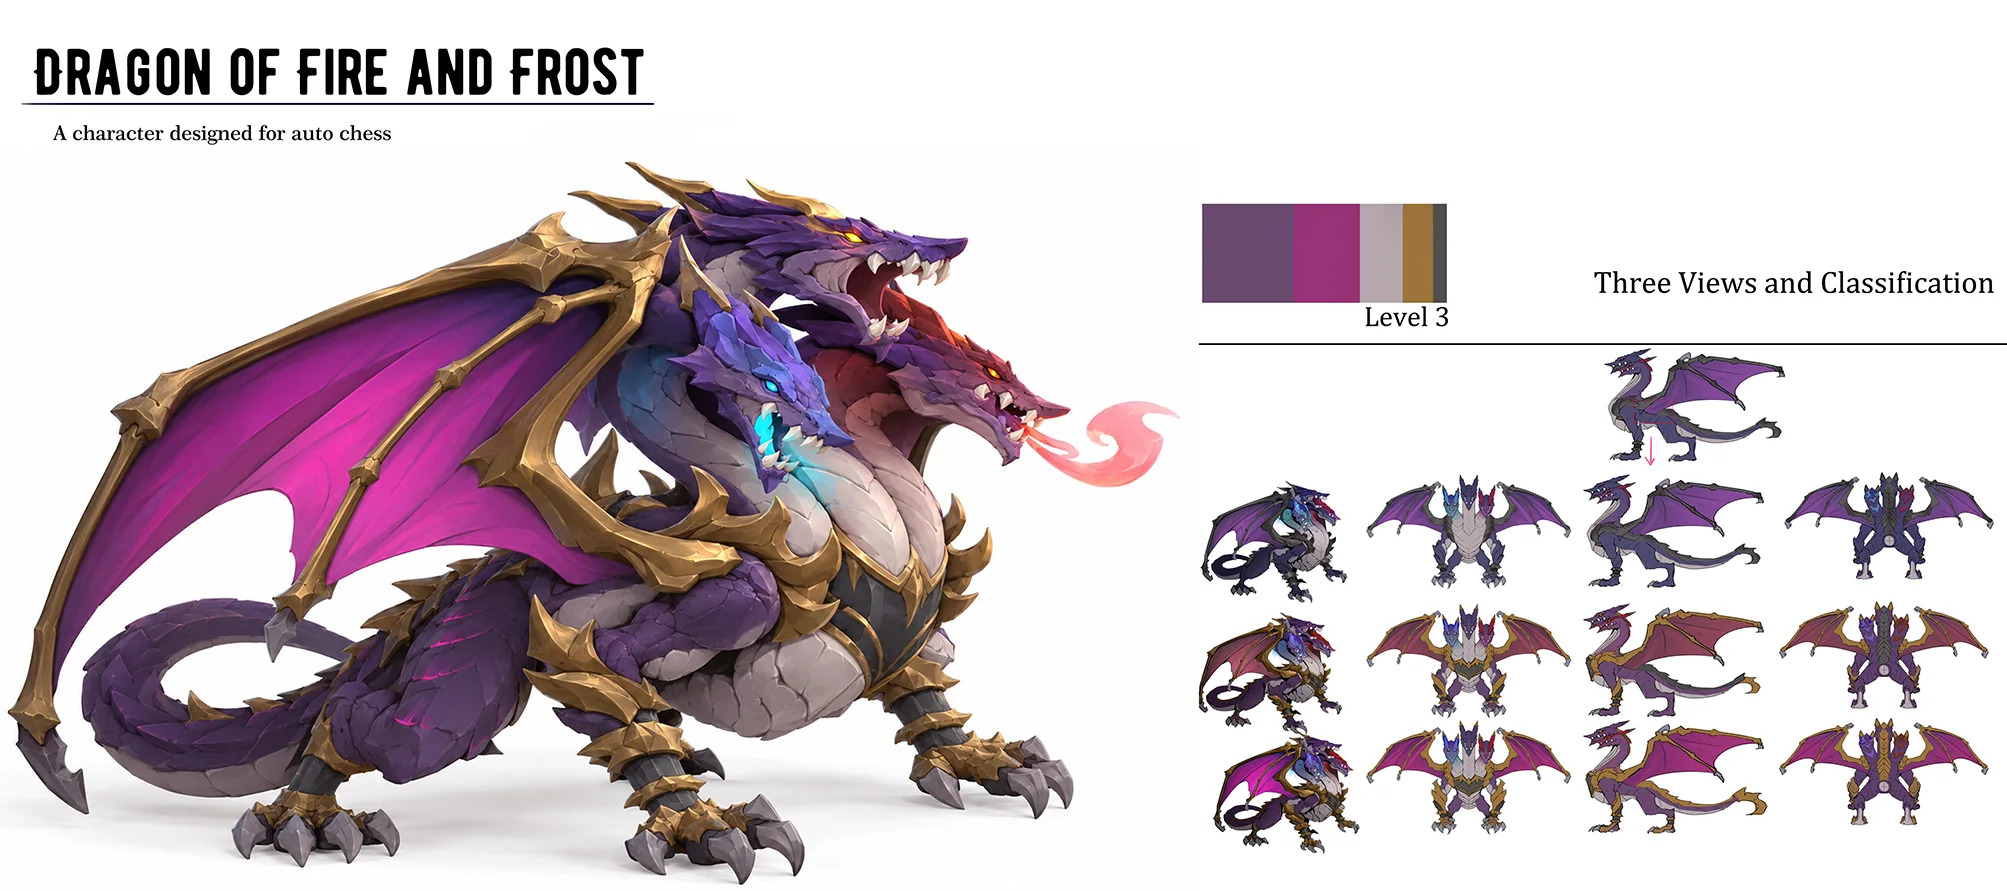
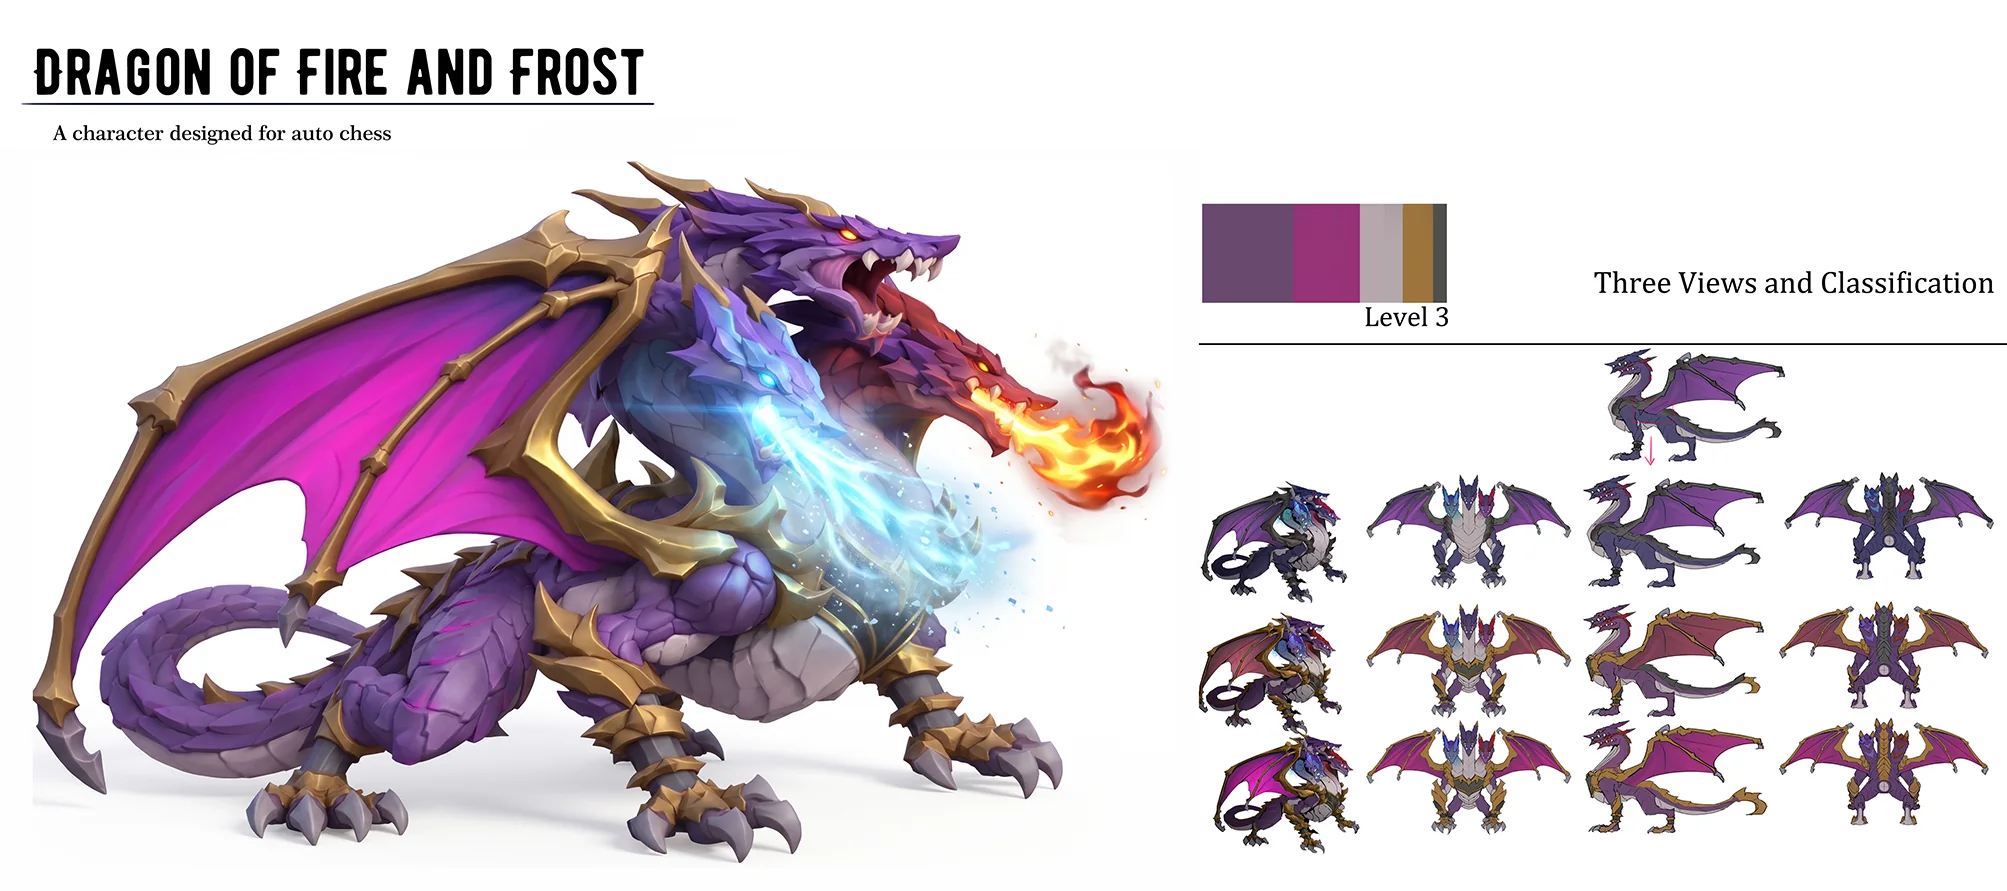
Replace character sheet and dragon artwork

Changed region(s): [[0.0, 0.1818, 0.5869, 1.0]]

diff --git a/index.html b/index.html
@@ -69,24 +69,25 @@
     <section class="statement" aria-label="创作理念"><div class="statement-index">FROM SKETCH TO SCREEN <span>↗</span></div><p class="reveal">让每一笔设定，<br>都成为<span>世界的一部分。</span></p><div class="statement-orbit" aria-hidden="true">✳</div></section>
 
     <section class="section gallery" id="gallery" aria-labelledby="gallery-title">
-      <div class="section-heading reveal"><div><p class="section-number">02 / ART ARCHIVE</p><h2 id="gallery-title">作品<span>档案</span><em> / 15</em></h2></div><p>点击任意作品查看完整大图。按方向筛选，快速浏览角色设定、世界视觉、宣传图和游戏界面。</p></div>
-      <div class="filters reveal" role="group" aria-label="筛选作品"><button class="filter active" type="button" data-filter="all" aria-pressed="true">全部 <span>15</span></button><button class="filter" type="button" data-filter="character" aria-pressed="false">角色设定</button><button class="filter" type="button" data-filter="world" aria-pressed="false">游戏视觉</button><button class="filter" type="button" data-filter="marketing" aria-pressed="false">宣传美术</button><button class="filter" type="button" data-filter="ui" aria-pressed="false">游戏 UI</button></div>
+      <div class="section-heading reveal"><div><p class="section-number">02 / ART ARCHIVE</p><h2 id="gallery-title">作品<span>档案</span><em> / 16</em></h2></div><p>点击任意作品查看完整大图。按方向筛选，快速浏览角色设定、世界视觉、宣传图和游戏界面。</p></div>
+      <div class="filters reveal" role="group" aria-label="筛选作品"><button class="filter active" type="button" data-filter="all" aria-pressed="true">全部 <span>16</span></button><button class="filter" type="button" data-filter="character" aria-pressed="false">角色设定</button><button class="filter" type="button" data-filter="world" aria-pressed="false">游戏视觉</button><button class="filter" type="button" data-filter="marketing" aria-pressed="false">宣传美术</button><button class="filter" type="button" data-filter="ui" aria-pressed="false">游戏 UI</button></div>
       <div class="gallery-grid">
         <button class="art-card reveal" type="button" data-category="character" data-image="assets/mecha-concept.webp" data-title="末日战士 · 角色设定" data-detail="机械角色造型、武器和结构设计"><span class="art-image"><img src="assets/mecha-concept.webp" alt="末日战士机械角色和武器设定板" loading="lazy"></span><span class="art-meta"><small>CHARACTER / 01</small><strong>末日战士 · 设定板</strong><b>↗</b></span></button>
         <button class="art-card reveal" type="button" data-category="world" data-image="assets/mecha-in-game.webp" data-title="末日战士 · 游戏内表现" data-detail="角色场景及技能效果"><span class="art-image"><img src="assets/mecha-in-game.webp" alt="末日战士在游戏内的场景与技能展示" loading="lazy"></span><span class="art-meta"><small>IN GAME / 02</small><strong>末日战士 · 游戏内</strong><b>↗</b></span></button>
-        <button class="art-card reveal" type="button" data-category="character" data-image="assets/dragon-design.webp" data-title="Dragon of Fire and Frost" data-detail="龙角色设定、配色与三视图"><span class="art-image"><img src="assets/dragon-design.webp" alt="Dragon of Fire and Frost 龙角色设计" loading="lazy"></span><span class="art-meta"><small>CREATURE / 03</small><strong>Dragon of Fire and Frost</strong><b>↗</b></span></button>
-        <button class="art-card reveal" type="button" data-category="character" data-image="assets/tiger-mecha.webp" data-title="Tiger Mecha" data-detail="机甲造型、细节与部件拆解"><span class="art-image"><img src="assets/tiger-mecha.webp" alt="Tiger Mecha 机甲角色设计和部件拆解" loading="lazy"></span><span class="art-meta"><small>MECHA / 04</small><strong>Tiger Mecha</strong><b>↗</b></span></button>
-        <button class="art-card reveal" type="button" data-category="character" data-image="assets/rescue-team.webp" data-title="紧急救援队" data-detail="角色造型、服装与配件设计"><span class="art-image"><img src="assets/rescue-team.webp" alt="紧急救援队角色及服装设定" loading="lazy"></span><span class="art-meta"><small>CHARACTER / 05</small><strong>紧急救援队</strong><b>↗</b></span></button>
-        <button class="art-card reveal" type="button" data-category="character" data-image="assets/violet-character.webp" data-title="奇幻角色设定" data-detail="造型设计与视觉探索"><span class="art-image"><img src="assets/violet-character.webp" alt="紫色奇幻角色与设定细节" loading="lazy"></span><span class="art-meta"><small>FANTASY / 06</small><strong>奇幻角色设定</strong><b>↗</b></span></button>
-        <button class="art-card reveal" type="button" data-category="character" data-image="assets/happy-farm.webp" data-title="Happy Farm" data-detail="休闲游戏卡通角色与动物造型"><span class="art-image"><img src="assets/happy-farm.webp" alt="Happy Farm 人物与动物角色设计" loading="lazy"></span><span class="art-meta"><small>STYLIZED / 07</small><strong>Happy Farm</strong><b>↗</b></span></button>
-        <button class="art-card reveal" type="button" data-category="world" data-image="assets/heroes-and-map.webp" data-title="角色与关卡视觉" data-detail="角色群像、游戏画面及关卡地图设计"><span class="art-image"><img src="assets/heroes-and-map.webp" alt="游戏角色、游戏内画面与关卡地图视觉" loading="lazy"></span><span class="art-meta"><small>GAME WORLD / 08</small><strong>角色与关卡视觉</strong><b>↗</b></span></button>
-        <button class="art-card reveal" type="button" data-category="world" data-image="assets/dark-fantasy-scene.webp" data-title="暗黑奇幻场景" data-detail="游戏角色与场景氛围探索"><span class="art-image"><img src="assets/dark-fantasy-scene.webp" alt="暗黑奇幻角色与游戏场景设计" loading="lazy"></span><span class="art-meta"><small>ENVIRONMENT / 09</small><strong>暗黑奇幻场景</strong><b>↗</b></span></button>
-        <button class="art-card reveal" type="button" data-category="marketing" data-image="assets/war-fortress.webp" data-title="War Fortress" data-detail="角色群像主视觉"><span class="art-image"><img src="assets/war-fortress.webp" alt="War Fortress 游戏角色群像宣传图" loading="lazy"></span><span class="art-meta"><small>KEY VISUAL / 10</small><strong>War Fortress</strong><b>↗</b></span></button>
-        <button class="art-card reveal" type="button" data-category="marketing" data-image="assets/slot-promo.webp" data-title="休闲游戏宣传视觉" data-detail="角色群像与游戏活动宣传画面"><span class="art-image"><img src="assets/slot-promo.webp" alt="休闲游戏角色群像宣传画面" loading="lazy"></span><span class="art-meta"><small>KEY VISUAL / 11</small><strong>休闲游戏宣传视觉</strong><b>↗</b></span></button>
-        <button class="art-card reveal" type="button" data-category="marketing" data-image="assets/game-loading.webp" data-title="休闲游戏加载画面" data-detail="场景气氛与角色群像"><span class="art-image"><img src="assets/game-loading.webp" alt="休闲游戏角色群像与烟花加载画面" loading="lazy"></span><span class="art-meta"><small>LOADING / 12</small><strong>游戏加载画面</strong><b>↗</b></span></button>
-        <button class="art-card reveal" type="button" data-category="marketing" data-image="assets/game-celebration.webp" data-title="休闲游戏庆典画面" data-detail="角色、氛围与节日视觉"><span class="art-image"><img src="assets/game-celebration.webp" alt="休闲游戏庆典角色宣传画面" loading="lazy"></span><span class="art-meta"><small>KEY VISUAL / 13</small><strong>游戏庆典画面</strong><b>↗</b></span></button>
-        <button class="art-card reveal" type="button" data-category="ui" data-image="assets/match-game.webp" data-title="休闲游戏 UI 与图标" data-detail="游戏界面、道具与图标素材"><span class="art-image"><img src="assets/match-game.webp" alt="休闲游戏界面和图标素材" loading="lazy"></span><span class="art-meta"><small>GAME UI / 14</small><strong>休闲游戏 UI 与图标</strong><b>↗</b></span></button>
-        <button class="art-card reveal" type="button" data-category="ui" data-image="assets/game-ui.webp" data-longform="true" data-title="Captain Capy · 完整视觉设计" data-detail="UI / GUI、角色设计、场景等视觉内容均由本人独立完成"><span class="art-image"><img src="assets/game-ui.webp" alt="Captain Capy 手游视觉长图，包含界面、角色、场景和系统设计" loading="lazy"></span><span class="art-meta"><small>GAME UI / 15</small><strong>Captain Capy · 独立完成</strong><b>↗</b></span></button>
+        <button class="art-card reveal" type="button" data-category="character" data-image="assets/character-lineup.webp" data-title="风格化角色设定" data-detail="骷髅海盗、石像鬼与冒险角色造型及多视图设定"><span class="art-image"><img src="assets/character-lineup.webp" alt="骷髅海盗、石像鬼与冒险角色设定及多视图" loading="lazy"></span><span class="art-meta"><small>CHARACTER / 03</small><strong>风格化角色设定</strong><b>↗</b></span></button>
+        <button class="art-card reveal" type="button" data-category="character" data-image="assets/dragon-design.webp" data-title="Dragon of Fire and Frost" data-detail="龙角色设定、配色与三视图"><span class="art-image"><img src="assets/dragon-design.webp" alt="Dragon of Fire and Frost 龙角色设计" loading="lazy"></span><span class="art-meta"><small>CREATURE / 04</small><strong>Dragon of Fire and Frost</strong><b>↗</b></span></button>
+        <button class="art-card reveal" type="button" data-category="character" data-image="assets/tiger-mecha.webp" data-title="Tiger Mecha" data-detail="机甲造型、细节与部件拆解"><span class="art-image"><img src="assets/tiger-mecha.webp" alt="Tiger Mecha 机甲角色设计和部件拆解" loading="lazy"></span><span class="art-meta"><small>MECHA / 05</small><strong>Tiger Mecha</strong><b>↗</b></span></button>
+        <button class="art-card reveal" type="button" data-category="character" data-image="assets/rescue-team.webp" data-title="紧急救援队" data-detail="角色造型、服装与配件设计"><span class="art-image"><img src="assets/rescue-team.webp" alt="紧急救援队角色及服装设定" loading="lazy"></span><span class="art-meta"><small>CHARACTER / 06</small><strong>紧急救援队</strong><b>↗</b></span></button>
+        <button class="art-card reveal" type="button" data-category="character" data-image="assets/violet-character.webp" data-title="奇幻角色设定" data-detail="造型设计与视觉探索"><span class="art-image"><img src="assets/violet-character.webp" alt="紫色奇幻角色与设定细节" loading="lazy"></span><span class="art-meta"><small>FANTASY / 07</small><strong>奇幻角色设定</strong><b>↗</b></span></button>
+        <button class="art-card reveal" type="button" data-category="character" data-image="assets/happy-farm.webp" data-title="Happy Farm" data-detail="休闲游戏卡通角色与动物造型"><span class="art-image"><img src="assets/happy-farm.webp" alt="Happy Farm 人物与动物角色设计" loading="lazy"></span><span class="art-meta"><small>STYLIZED / 08</small><strong>Happy Farm</strong><b>↗</b></span></button>
+        <button class="art-card reveal" type="button" data-category="world" data-image="assets/heroes-and-map.webp" data-title="角色与关卡视觉" data-detail="角色群像、游戏画面及关卡地图设计"><span class="art-image"><img src="assets/heroes-and-map.webp" alt="游戏角色、游戏内画面与关卡地图视觉" loading="lazy"></span><span class="art-meta"><small>GAME WORLD / 09</small><strong>角色与关卡视觉</strong><b>↗</b></span></button>
+        <button class="art-card reveal" type="button" data-category="world" data-image="assets/dark-fantasy-scene.webp" data-title="暗黑奇幻场景" data-detail="游戏角色与场景氛围探索"><span class="art-image"><img src="assets/dark-fantasy-scene.webp" alt="暗黑奇幻角色与游戏场景设计" loading="lazy"></span><span class="art-meta"><small>ENVIRONMENT / 10</small><strong>暗黑奇幻场景</strong><b>↗</b></span></button>
+        <button class="art-card reveal" type="button" data-category="marketing" data-image="assets/war-fortress.webp" data-title="War Fortress" data-detail="角色群像主视觉"><span class="art-image"><img src="assets/war-fortress.webp" alt="War Fortress 游戏角色群像宣传图" loading="lazy"></span><span class="art-meta"><small>KEY VISUAL / 11</small><strong>War Fortress</strong><b>↗</b></span></button>
+        <button class="art-card reveal" type="button" data-category="marketing" data-image="assets/slot-promo.webp" data-title="休闲游戏宣传视觉" data-detail="角色群像与游戏活动宣传画面"><span class="art-image"><img src="assets/slot-promo.webp" alt="休闲游戏角色群像宣传画面" loading="lazy"></span><span class="art-meta"><small>KEY VISUAL / 12</small><strong>休闲游戏宣传视觉</strong><b>↗</b></span></button>
+        <button class="art-card reveal" type="button" data-category="marketing" data-image="assets/game-loading.webp" data-title="休闲游戏加载画面" data-detail="场景气氛与角色群像"><span class="art-image"><img src="assets/game-loading.webp" alt="休闲游戏角色群像与烟花加载画面" loading="lazy"></span><span class="art-meta"><small>LOADING / 13</small><strong>游戏加载画面</strong><b>↗</b></span></button>
+        <button class="art-card reveal" type="button" data-category="marketing" data-image="assets/game-celebration.webp" data-title="休闲游戏庆典画面" data-detail="角色、氛围与节日视觉"><span class="art-image"><img src="assets/game-celebration.webp" alt="休闲游戏庆典角色宣传画面" loading="lazy"></span><span class="art-meta"><small>KEY VISUAL / 14</small><strong>游戏庆典画面</strong><b>↗</b></span></button>
+        <button class="art-card reveal" type="button" data-category="ui" data-image="assets/match-game.webp" data-title="休闲游戏 UI 与图标" data-detail="游戏界面、道具与图标素材"><span class="art-image"><img src="assets/match-game.webp" alt="休闲游戏界面和图标素材" loading="lazy"></span><span class="art-meta"><small>GAME UI / 15</small><strong>休闲游戏 UI 与图标</strong><b>↗</b></span></button>
+        <button class="art-card reveal" type="button" data-category="ui" data-image="assets/game-ui.webp" data-longform="true" data-title="Captain Capy · 完整视觉设计" data-detail="UI / GUI、角色设计、场景等视觉内容均由本人独立完成"><span class="art-image"><img src="assets/game-ui.webp" alt="Captain Capy 手游视觉长图，包含界面、角色、场景和系统设计" loading="lazy"></span><span class="art-meta"><small>GAME UI / 16</small><strong>Captain Capy · 独立完成</strong><b>↗</b></span></button>
       </div>
     </section>
 
